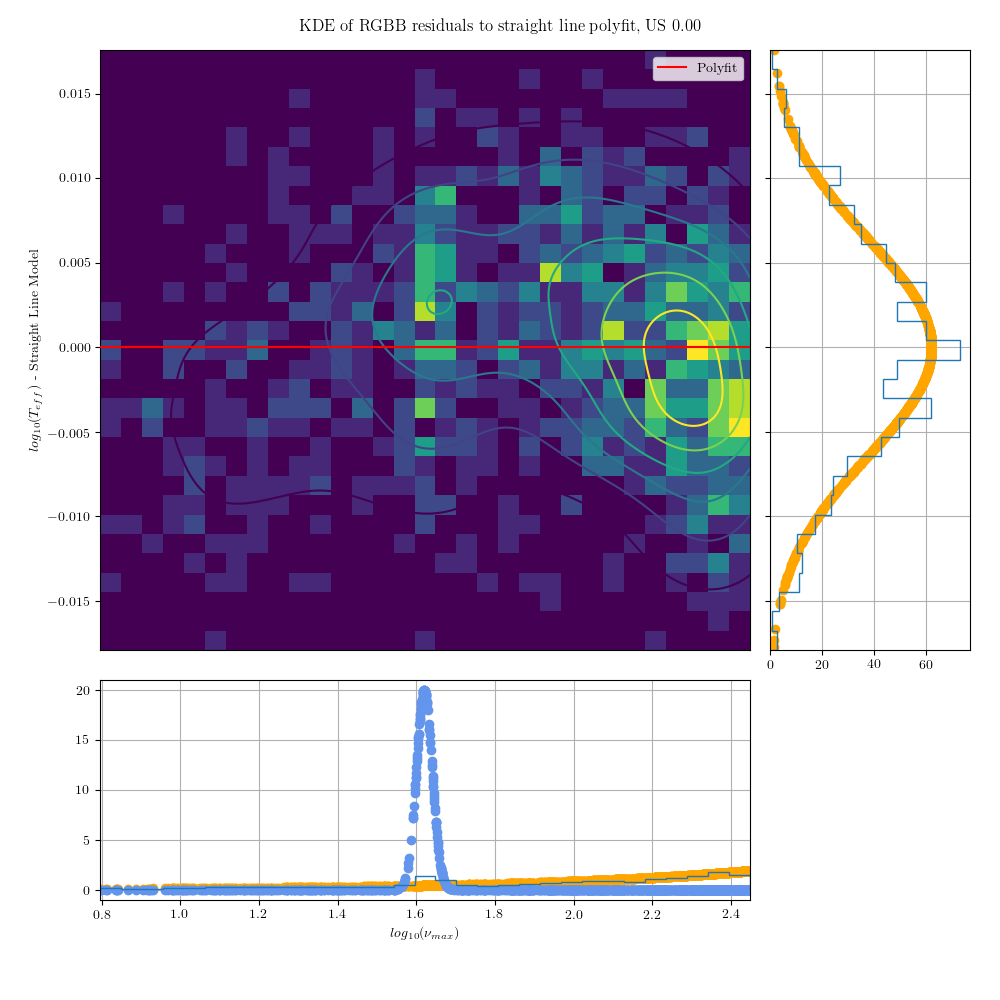
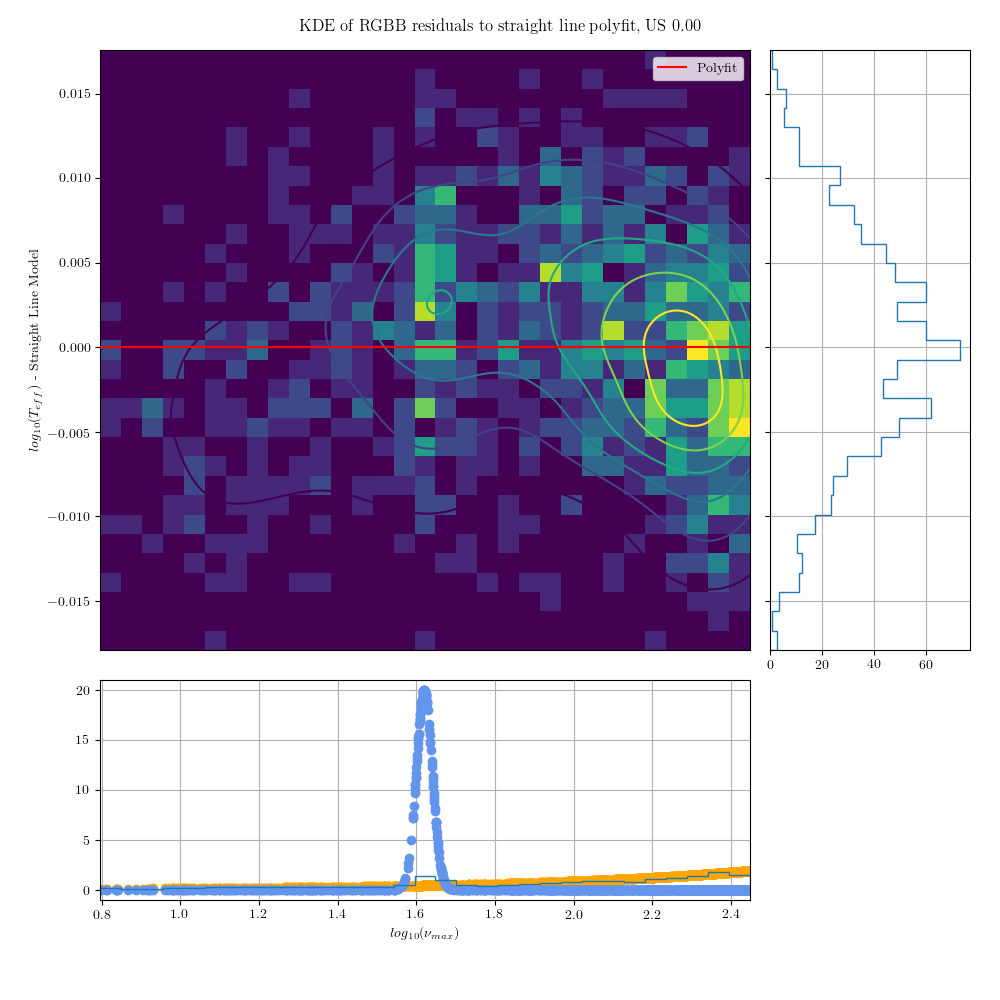
Removed y-axis dependency.

diff --git a/RGBB_mixmod.py b/RGBB_mixmod.py
@@ -38,22 +38,22 @@ class cModel:
         self.x = _x
         self.y = _y
 
-    def prob_y(self, p):
-        _, _, m, c, sigm, _, _ = p
-        #Calculating the likelihood in the Y direction
-        model = m * self.x + c
-        lnLy = -0.5 * (((y - model) / sigm)**2 + 2*np.log(sigm) +np.log(2*np.pi))
-        return lnLy
+    # def prob_y(self, p):
+    #     _, _, m, c, sigm, _, _ = p
+    #     #Calculating the likelihood in the Y direction
+    #     model = m * self.x + c
+    #     lnLy = -0.5 * (((y - model) / sigm)**2 + 2*np.log(sigm) +np.log(2*np.pi))
+    #     return lnLy
 
     def fg_x(self, p):
-        b, sigb, _, _, _, _, _ = p
+        b, sigb, _, _ = p
 
         #Calculating the likelihood in the X direction
         lnLx = -0.5 * (((b - self.x) / sigb)**2 + 2*np.log(sigb) +np.log(2*np.pi))
         return lnLx
 
     def bg_x(self, p):
-        _, _, _, _, _, lambd, _ = p
+        _, _, lambd, _ = p
 
         #Calculating the likelihood in the X direction
         A = lambd * (np.exp(lambd*x.max()) - np.exp(lambd*x.min()))**-1
@@ -61,11 +61,11 @@ class cModel:
         return lnLx
 
     def bg(self, p):
-        bg =  self.prob_y(p) + self.bg_x(p)
+        bg =  self.bg_x(p)
         return bg
 
     def fg(self, p):
-        fg = self.prob_y(p) + self.fg_x(p)
+        fg = self.fg_x(p)
         return fg
 
 
@@ -106,12 +106,11 @@ if __name__ == '__main__':
 
 
 ####---SETTING UP MCMC
-        labels_mc = ["$b$", r"$\sigma(b)$", "$m$", "$c$", r"$\sigma(m)$", r"$\lambda$","$Q$"]
+        labels_mc = ["$b$", r"$\sigma(b)$", r"$\lambda$","$Q$"]
         std = np.std(D)
-        start_params = np.array([lognuguess, 0.02, f[0], f[1], std, 1.8, 0.5])
-        bounds = [(lognuguess-.05, lognuguess+.05,), (0.01,0.03),\
-                    (f[0]-0.02,f[0]+0.02), (f[1]-0.3,f[1]+0.3), \
-                    (std*0.5,std*1.5), (1.4, 2.2), (0,1)]
+        start_params = np.array([lognuguess, 0.02, 1.8, 0.5])
+        bounds = [(lognuguess-.05, lognuguess+.05,), (0.01,0.05),\
+                    (1.4, 2.2), (0,1)]
         Model = cModel(x, y)
         lnprior = cPrior.Prior(bounds)
         Like = cLikelihood.Likelihood(lnprior,Model)
@@ -156,7 +155,7 @@ if __name__ == '__main__':
         sax.legend(loc='best',fancybox=True)
 
         yax.hist(D,bins=int(np.sqrt(len(D))),histtype='step',orientation='horizontal', normed=True)
-        yax.scatter(np.exp(Model.prob_y(start_params)), D,c='orange')
+        # yax.scatter(np.exp(Model.prob_y(start_params)), D,c='orange')
         yax.set_ylim(sax.get_ylim())
 
         xax.hist(x,bins=int(np.sqrt(len(x))),histtype='step',normed=True)
@@ -208,21 +207,19 @@ if __name__ == '__main__':
 
         fig.suptitle('Resulting probability distributions, US '+US)
 
-        fn = res[2]*x + res[3]
-        Dr = y - fn
-        sax.scatter(x, Dr, c=fg_pp,cmap='Blues_r',label=US)
-        sax.axhline(0.,c='r',label='Straight line fit',zorder=1001)
+        sax.scatter(x, y, c=fg_pp,cmap='Blues_r',label=US)
+        # sax.axhline(0.,c='r',label='Straight line fit',zorder=1001)
         sax.legend(loc='best',fancybox=True)
 
         yax.hist(Dr,bins=int(np.sqrt(len(Dr))),histtype='step',orientation='horizontal', normed=True)
-        yax.scatter(np.exp(Model.prob_y(res)), Dr,c='orange')
+        # yax.scatter(np.exp(Model.prob_y(res)), Dr,c='orange')
         yax.set_ylim(sax.get_ylim())
 
         xax.hist(x,bins=int(np.sqrt(len(x))),histtype='step',normed=True)
         xax.scatter(x,np.exp(Model.bg_x(res)),c='orange')
         xax.scatter(x,np.exp(Model.fg_x(res)),c='cornflowerblue')
 
-        sax.set_ylabel(r"$log_{10}(T_{eff})$ - Straight Line Model")
+        sax.set_ylabel(r"$log_{10}(T_{eff})$")
         xax.set_xlabel(r"$log_{10}(\nu_{max})$")
         fig.savefig('Output/Saniya_RGBB/result_'+US+'.png')
         plt.show()
